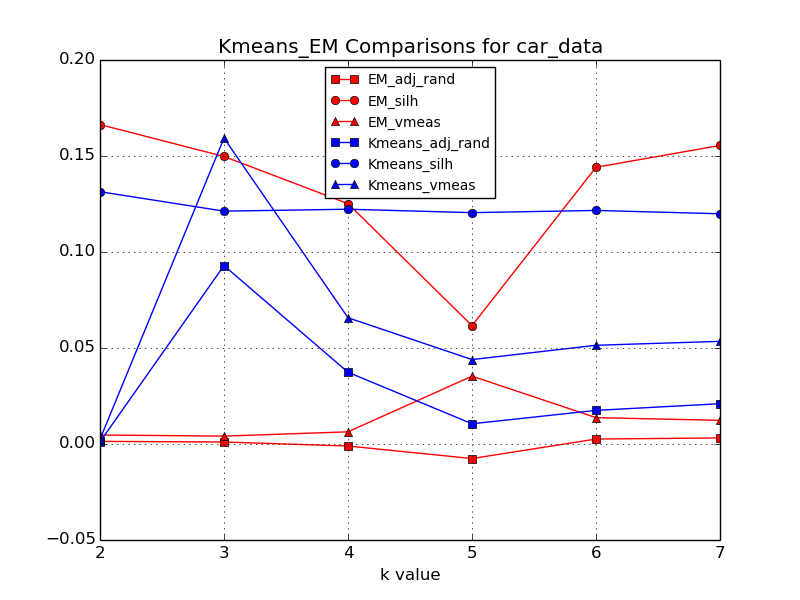
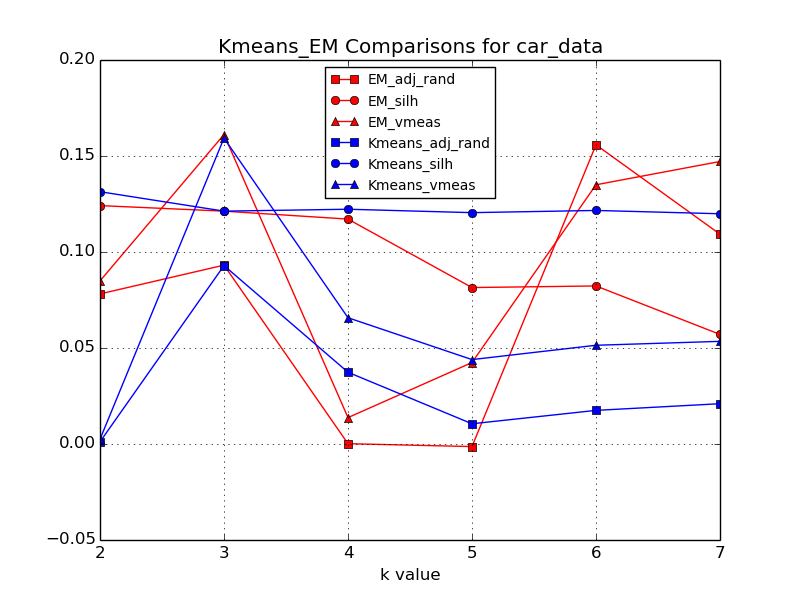
update

diff --git a/proj3/experiments.py b/proj3/experiments.py
@@ -12,8 +12,8 @@ from sklearn.random_projection import GaussianRandomProjection
 from sklearn.neural_network import MLPClassifier
 from sklearn.decomposition import PCA
 from sklearn.decomposition import FastICA
+from sklearn.discriminant_analysis import LinearDiscriminantAnalysis
 from sklearn.mixture import GaussianMixture
-from sklearn.feature_selection import VarianceThreshold as VT
 from sklearn.feature_selection import SelectKBest
 from sklearn.feature_selection import mutual_info_classif
 
@@ -56,6 +56,8 @@ def clustering(dataset, x, y, ks):
         ars_km.append(metrics.adjusted_rand_score(y, kmeans.labels_))
         vms_km.append(metrics.v_measure_score(y, kmeans.labels_))
         em = GaussianMixture(n_components=k)#, random_state=20, n_init=20)
+        
+        x = X
         em.fit(x)
         pred_labels_em = em.predict(x)
         ss_em.append(metrics.silhouette_score(x, pred_labels_em))
@@ -90,43 +92,43 @@ def dimension_reduction(dataset, x, y, ns):
     for n in ns:
         pca = PCA(n_components=n)
         reduced_X = pca.fit_transform(X)
-#        reconstructed_X = scaler.inverse_transform(pca.inverse_transform(reduced_X))  
-#        error = sum(map(np.linalg.norm, reconstructed_X-X))
         reconstructed_X = pca.inverse_transform(reduced_X)
         error = np.linalg.norm((X-reconstructed_X), None)
         rec_errs_pca.append(error)
+        #print('pca - reduced X: {0}'.format(reduced_X))
 
         ica = FastICA(n_components=n)
         reduced_X = ica.fit_transform(X)
-#        reconstructed_X = scaler.inverse_transform(ica.inverse_transform(reduced_X))
-#        error = sum(map(np.linalg.norm, reconstructed_X - X))        
         reconstructed_X = ica.inverse_transform(reduced_X)
         error = np.linalg.norm((X-reconstructed_X), None)
         rec_errs_ica.append(error)
+        #print('ica - reduced X: {0}'.format(reduced_X))
 
         grp = GaussianRandomProjection(n_components=n)
         reduced_X = grp.fit_transform(X)
         pinv = np.linalg.pinv(grp.components_)
-#        reconstructed_X = scaler.inverse_transform(np.dot(reduced_X, pinv.T))  
-#        error = sum(map(np.linalg.norm, reconstructed_X-X))
         reconstructed_X = np.dot(reduced_X, pinv.T)
         error = np.linalg.norm((X-reconstructed_X), None)
         rec_errs_rp.append(error)
 
-        skb = SelectKBest(mutual_info_classif, k=n)
-        reduced_X = skb.fit_transform(X, y)
-        reconstructed_X = skb.inverse_transform(reduced_X)
+#        skb = SelectKBest(mutual_info_classif, k=n)
+#        reduced_X = skb.fit_transform(X, y)
+#        reconstructed_X = skb.inverse_transform(reduced_X)
+        lda = LinearDiscriminantAnalysis(n_components=n)
+        reduced_X = lda.fit_transform(X, y)
+        pinv = np.linalg.pinv(lda.scalings_[:, 0:n])
+        reconstructed_X = np.dot(reduced_X, pinv) + lda.xbar_
         error = np.linalg.norm((X-reconstructed_X), None)
         rec_errs.append(error)
         #print('X: {0}\treduced X: {1}'.format(X[0],reduced_X[0]))
-    d = {'number of components to keep' : ns,
+    d = {'Number of components to keep' : ns,
          'PCA' : rec_errs_pca,
          'ICA' : rec_errs_ica,
-         'Randome Projection' : rec_errs_rp,
-         'SelectKBest: mutual_info_classif' : rec_errs}
+         'Randomized Projection' : rec_errs_rp,
+         'Linear Discriminant Analysis' : rec_errs}
     #print(d)
     df = pd.DataFrame(d)
-    df.set_index('number of components to keep', inplace=True)
+    df.set_index('Number of components to keep', inplace=True)
     #print(df)
     styles = ['s-', 'o-', '^-', 'p-']
     fontP = FontProperties()
@@ -134,7 +136,7 @@ def dimension_reduction(dataset, x, y, ns):
     filename = dataset+"_dim_red_tests"
     plt.figure()
     ax = df.plot(title='Dimensionality Reduction Algorithms Comparisons for '+dataset, style=styles)
-    ax.set_ylabel("Reconstruction Error")
+    ax.set_ylabel("Reconstruction error")
     plt.legend(loc='best', prop=fontP)
     plt.savefig(filename)
 
@@ -148,7 +150,7 @@ if __name__=='__main__':
     
     print("--------------------------Experiment 1------------------------------")
     ks = [2,3,4,5,6,7]
-#    clustering(dataset1, x, y, ks)
+    clustering(dataset1, x, y, ks)
 
     print("--------------------------Experiment 2------------------------------")
     ns = [1,2,3,4,5]
@@ -162,7 +164,7 @@ if __name__=='__main__':
 
     print("--------------------------Experiment 1------------------------------")
     ks = [2,3,4,5]
-#    clustering(dataset2, x, y, ks)
+    clustering(dataset2, x, y, ks)
 
     print("--------------------------Experiment 2------------------------------")
     ns = [1,2,3,4,5,6,7,8]
